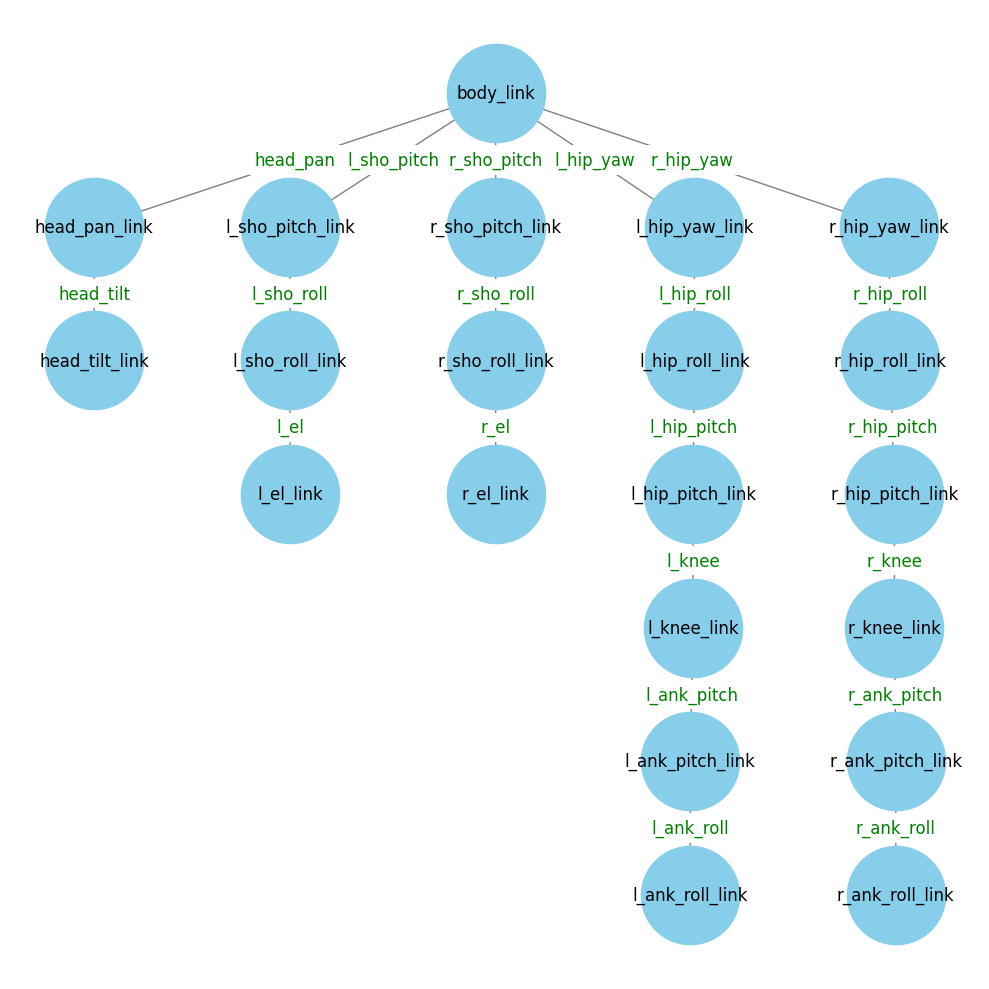
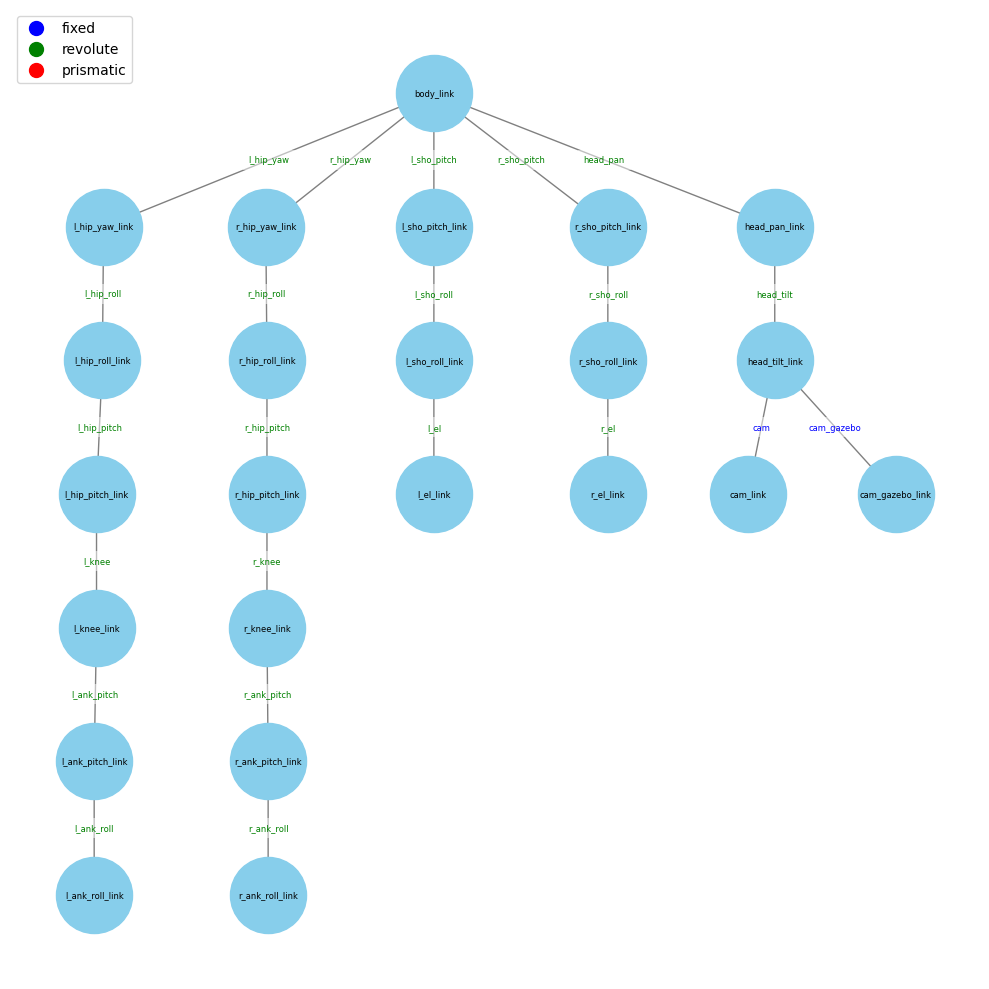
Update folder structure and kinematics tree visualization

Changed region(s): [[0.0303, 0.0303, 0.9707, 0.9707], [0.0303, 0.0, 0.1213, 0.091]]

diff --git a/toddleroid/utils/vis_kine_tree.py b/toddleroid/utils/vis_kine_tree.py
@@ -29,10 +29,14 @@ def parse_urdf_to_links_and_joints(urdf_path):
         parent_link = joint.find("parent").attrib["link"]
         child_link = joint.find("child").attrib["link"]
         joint_name = joint.attrib["name"]
+        joint_type = joint.attrib["type"]  # Store the joint type
 
         if parent_link not in links:
             links[parent_link] = {"joints": []}
-        links[parent_link]["joints"].append({"name": joint_name, "child": child_link})
+        # Include the joint type in the stored information
+        links[parent_link]["joints"].append(
+            {"name": joint_name, "child": child_link, "type": joint_type}
+        )
 
         if child_link not in links:
             links[child_link] = {"joints": []}
@@ -49,31 +53,54 @@ def vis_kine_tree(
     links_and_joints,
     output_path=None,
     figsize=(10, 10),
-    fixed_node_size=5000,
-    font_size=12,
+    fixed_node_size=3000,
+    font_size=6,
 ):
     G = nx.DiGraph()
     add_nodes_and_edges(links_and_joints, G)
 
-    # Set up the figure and axis
     plt.figure(figsize=figsize)
     pos = graphviz_layout(G, prog="dot")
 
-    # Draw nodes with a fixed size that should generally fit the wrapped text
     nx.draw_networkx_nodes(
         G, pos, node_shape="o", node_size=fixed_node_size, node_color="skyblue"
     )
-
-    # Wrap labels and draw them
     wrapped_labels = {node: textwrap.fill(node, width=20) for node in G.nodes()}
     nx.draw_networkx_labels(G, pos, labels=wrapped_labels, font_size=font_size)
-
-    # Draw edges
     nx.draw_networkx_edges(G, pos, arrowstyle="-|>", arrowsize=20, edge_color="gray")
 
-    # Draw edge labels with automatic alignment and rotation based on edge direction
+    # Define colors for different joint types
+    joint_colors = {
+        "fixed": "blue",
+        "revolute": "green",
+        "prismatic": "red",
+        # Add more joint types and colors if needed
+    }
+
+    # Create a legend for the joint types
+    legend_labels = {
+        jtype: plt.Line2D(
+            [0],
+            [0],
+            color=color,
+            marker="o",
+            linestyle="None",
+            markersize=10,
+            label=jtype,
+        )
+        for jtype, color in joint_colors.items()
+    }
+
+    # Draw edge labels with colors based on joint type
     edge_labels = nx.get_edge_attributes(G, "label")
     for (start, end), label in edge_labels.items():
+        joint_info = links_and_joints[start]["joints"]
+        joint_type = next(
+            (item for item in joint_info if item["child"] == end), {}
+        ).get("type", "unknown")
+        edge_color = joint_colors.get(
+            joint_type, "black"
+        )  # Default color if type is not in joint_colors
         x_start, y_start = pos[start]
         x_end, y_end = pos[end]
         label_x, label_y = (x_start + x_end) / 2, (y_start + y_end) / 2
@@ -82,15 +109,16 @@ def vis_kine_tree(
             label_x,
             label_y,
             label,
-            c="green",
+            color=edge_color,
             rotation="horizontal",
             horizontalalignment="center",
             verticalalignment="center",
             fontsize=font_size,
-            bbox=dict(facecolor="white", edgecolor="none", alpha=1.0),
+            bbox=dict(facecolor="white", edgecolor="none", alpha=0.5),
         )
 
-    # Turn off axis and show/save the plot
+    plt.legend(handles=legend_labels.values(), loc="upper left")
+
     plt.axis("off")
     plt.tight_layout()
 

diff --git a/toddleroid/sim/mujoco_sim.py b/toddleroid/sim/mujoco_sim.py
@@ -49,16 +49,16 @@ class MujoCoSim(AbstractSim):
             body_pos = self.data.body(i).xipos
             lowest_z = min(lowest_z, body_pos[2])
 
-        base_link_name = robot.config.canonical_name2link_name["base_link"]
-        base_pos = self.data.body(base_link_name).xpos
+        body_link_name = robot.config.canonical_name2link_name["body_link"]
+        base_pos = self.data.body(body_link_name).xpos
         desired_z = base_pos[2] - lowest_z + z_offset
         if lowest_z < 0:
             raise ValueError(
-                f"Robot is below the ground. Change the z value of {base_link_name} to be {desired_z}"
+                f"Robot is below the ground. Change the z value of {body_link_name} to be {desired_z}"
             )
         elif lowest_z > z_offset:
             raise ValueError(
-                f"Robot is too high above the ground. Change the z value of {base_link_name} as {desired_z}"
+                f"Robot is too high above the ground. Change the z value of {body_link_name} as {desired_z}"
             )
 
     def get_joint_name2qidx(self, robot: HumanoidRobot):
@@ -85,10 +85,10 @@ class MujoCoSim(AbstractSim):
     def get_com_state(self, robot: HumanoidRobot):
         # TODO: Replace this with an IMU sensor
         mujoco.mj_kinematics(self.model, self.data)
-        base_link_name = robot.config.canonical_name2link_name["base_link"]
-        com_pos = self.data.body(base_link_name).xipos[:2]
-        com_vel = self.data.body(base_link_name).cvel[3:5]
-        com_acc = self.data.body(base_link_name).cacc[3:5]
+        body_link_name = robot.config.canonical_name2link_name["body_link"]
+        com_pos = self.data.body(body_link_name).xipos[:2]
+        com_vel = self.data.body(body_link_name).cvel[3:5]
+        com_acc = self.data.body(body_link_name).cacc[3:5]
         return np.array([com_pos, com_vel, com_acc])
 
     def set_joint_angles(self, robot: HumanoidRobot, joint_angles: List[float]):
@@ -131,9 +131,11 @@ class MujoCoSim(AbstractSim):
                         ]
                     ),
                     mat=euler2mat(0, 0, foot_step.position[2]).flatten(),
-                    rgba=[0, 0, 1, 1]
-                    if foot_step.support_leg == "left"
-                    else [0, 1, 0, 1],
+                    rgba=(
+                        [0, 0, 1, 1]
+                        if foot_step.support_leg == "left"
+                        else [0, 1, 0, 1]
+                    ),
                 )
                 i += 1
             viewer.user_scn.ngeom = i

diff --git a/toddleroid/robot_descriptions/robotis_op3/config.py b/toddleroid/robot_descriptions/robotis_op3/config.py
@@ -3,7 +3,7 @@ import numpy as np
 from toddleroid.robot_descriptions.robot_configs import RobotConfig
 
 canonical_name2link_name = {
-    "base_link": "body_link",
+    "body_link": "body_link",
     "left_foot_link": "l_ank_roll_link",
     "right_foot_link": "r_ank_roll_link",
 }

diff --git a/toddleroid/robot_descriptions/sustaina_op/config.py b/toddleroid/robot_descriptions/sustaina_op/config.py
@@ -3,7 +3,7 @@ import numpy as np
 from toddleroid.robot_descriptions.robot_configs import RobotConfig
 
 canonical_name2link_name = {
-    "base_link": "base_link",
+    "body_link": "base_link",
     "left_foot_link": "left_foot_link",
     "right_foot_link": "right_foot_link",
 }
